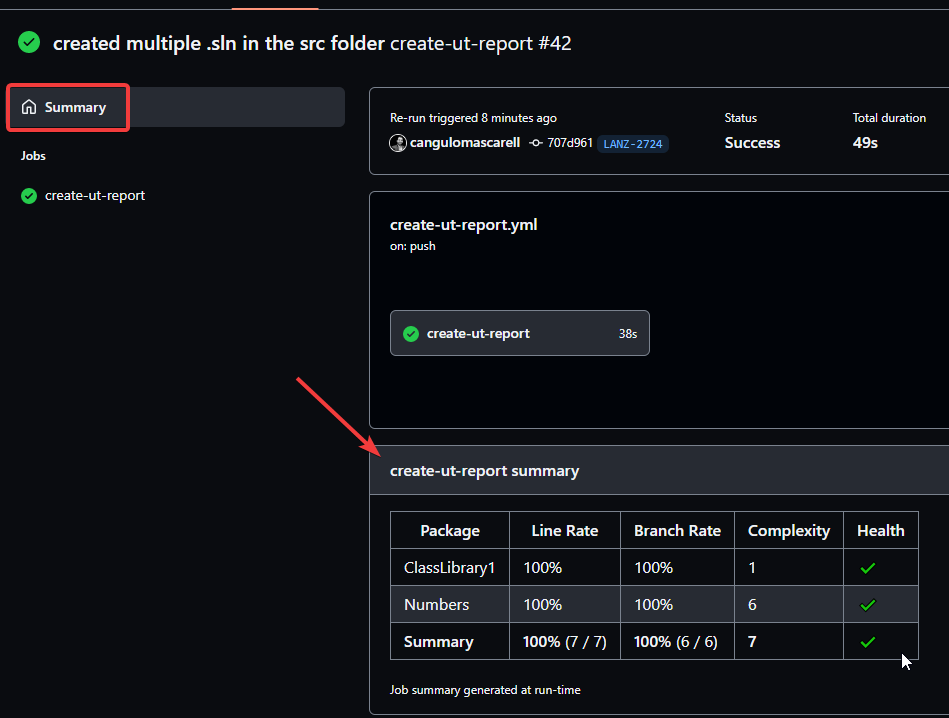
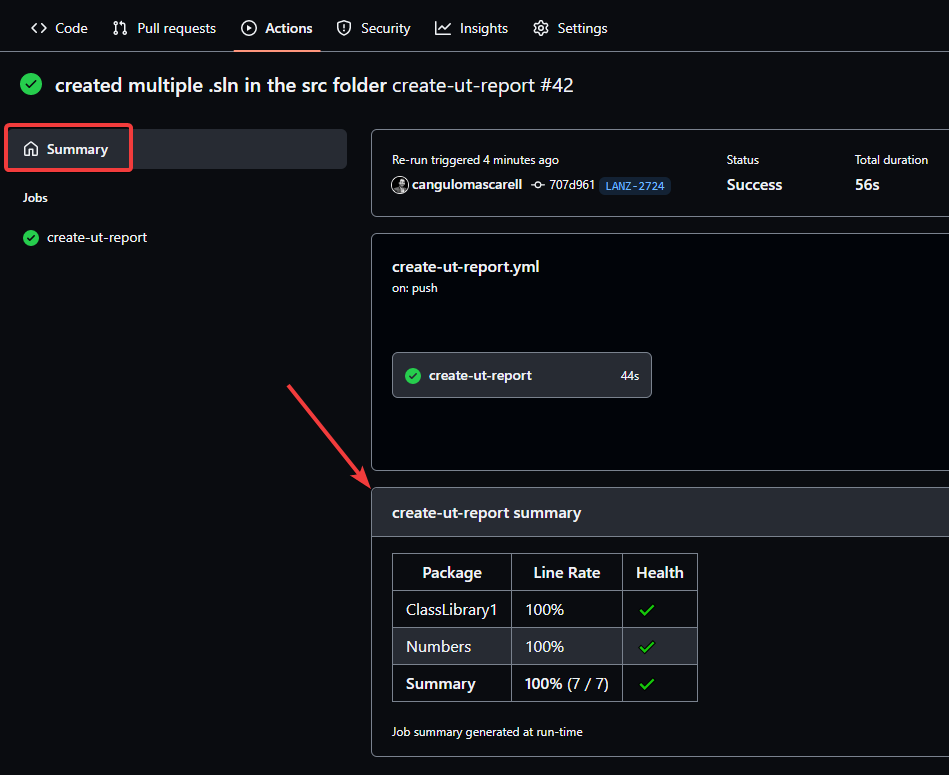
fix: LANZ-2724 simplified report output (#10)

diff --git a/README.md b/README.md
@@ -12,7 +12,7 @@ jobs:
     runs-on: ubuntu-latest
     steps:
       - uses: actions/checkout@v2
-      - uses: ohpensource/dotnet-test-gh-action@v0.2.0
+      - uses: ohpensource/dotnet-test-gh-action@v0.2.2
         name: Test dotnet application
         with:
           sln-folder: "src"
@@ -31,7 +31,7 @@ jobs:
     runs-on: ubuntu-latest
     steps:
       - uses: actions/checkout@v2
-      - uses: ohpensource/dotnet-test-gh-action@v0.2.0
+      - uses: ohpensource/dotnet-test-gh-action@v0.2.2
         name: Test dotnet application
         with:
           sln-folder: "src"
